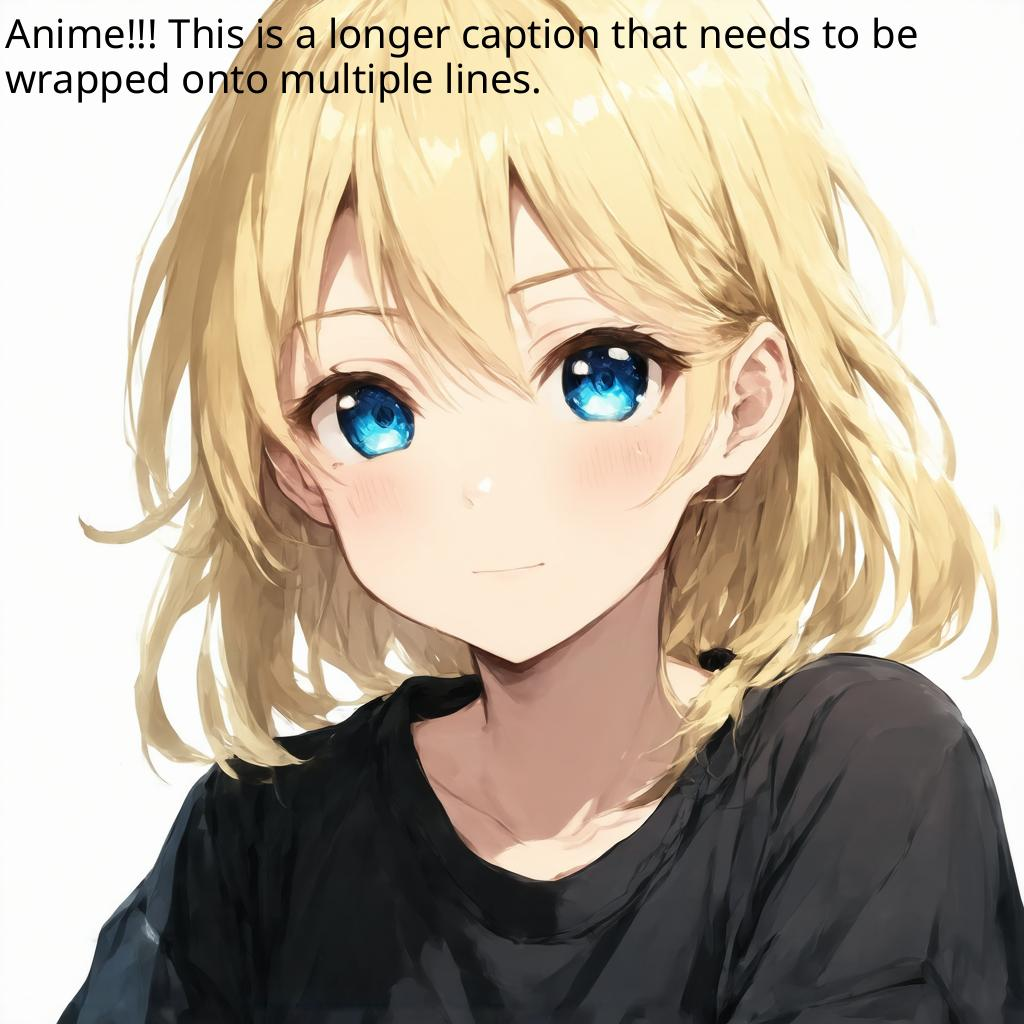
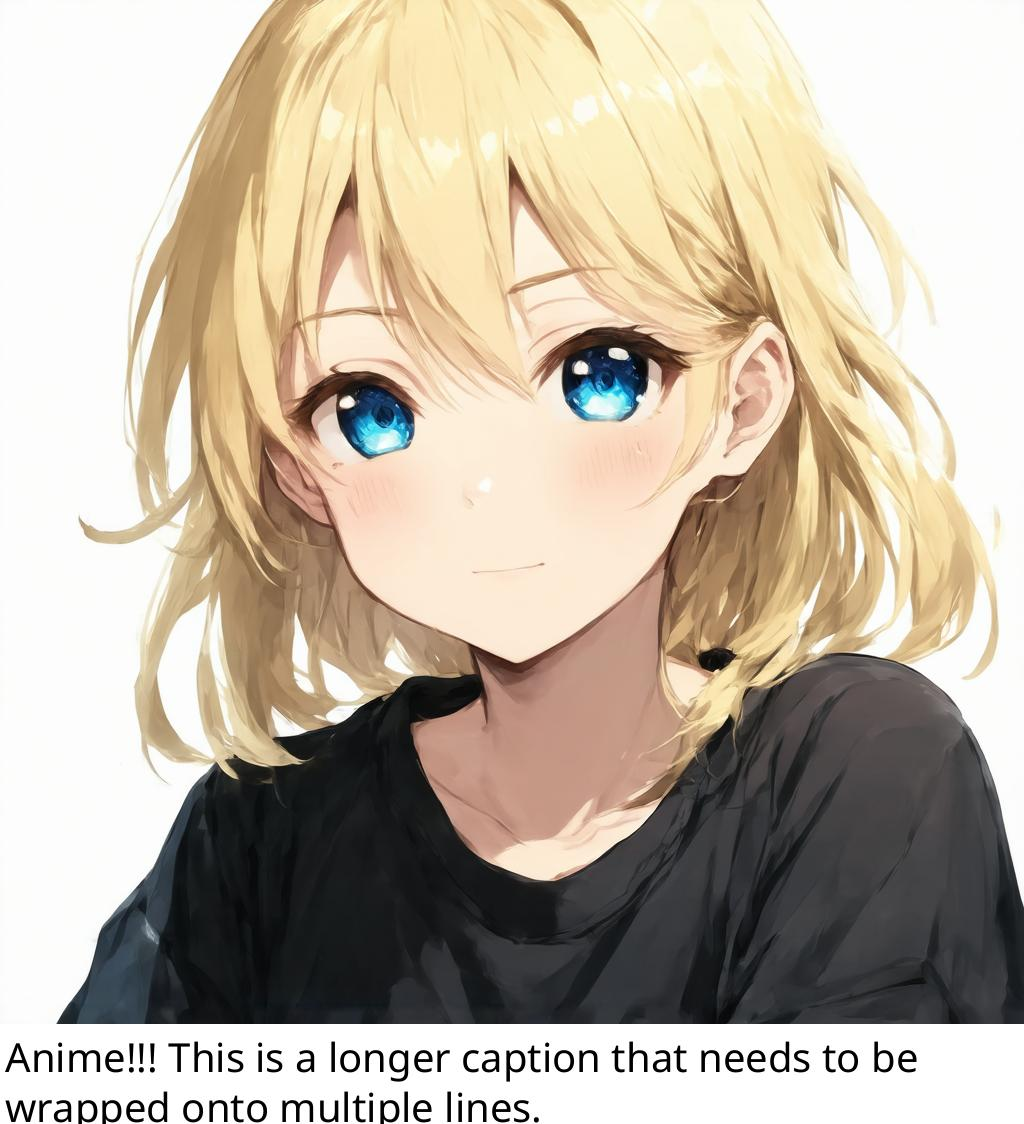
caption sorta working

diff --git a/test_cap/main.py b/test_cap/main.py
@@ -1,3 +1,4 @@
+'''
 from PIL import Image, ImageDraw, ImageFont
 
 # Load the image
@@ -46,3 +47,66 @@ for line in lines:
 
 # Save the new image with caption to disk
 img.save("captured_image.jpg")
+'''
+
+from PIL import Image, ImageDraw, ImageFont
+
+# Load the image
+img = Image.open("test.png")  # replace with your own image
+original_width, original_height = img.size
+
+# Set the text to be overlaid on the image
+text = "Anime!!! This is a longer caption that needs to be wrapped onto multiple lines."
+
+# Define some constants for color and font sizes
+BLACK = (0, 0, 0)
+WHITE = (255, 255, 255)  # White color for the new space
+FONT_SIZE_BODY = 40
+
+# Get a font object for our text
+font_body = ImageFont.truetype("NotoSans.ttf", FONT_SIZE_BODY)
+
+# Create a drawing context for calculating text size
+draw = ImageDraw.Draw(img)
+
+# Define some styles for the caption
+CAPTION_COLOR = BLACK
+CAPTION_PADDING = 5
+LINE_SPACING = 10
+
+# Wrap the caption to multiple lines if necessary
+lines = []
+words = text.split()
+current_line = words[0]
+for word in words[1:]:
+    # Check if adding another word exceeds the image width
+    current_text_size = int(draw.textlength(current_line, font=font_body))
+    word_size = int(draw.textlength(word, font=font_body))
+    if current_text_size + word_size + CAPTION_PADDING > original_width - 2 * CAPTION_PADDING:
+        lines.append(current_line)
+        current_line = word
+    else:
+        current_line += ' ' + word
+
+# Add the last line to the list of lines
+lines.append(current_line)
+
+# Calculate the total height needed for the text
+text_height = (len(lines) - 1) * (FONT_SIZE_BODY + LINE_SPACING) + FONT_SIZE_BODY + CAPTION_PADDING * 2
+
+# Create a new image with added white space at the bottom
+new_image_height = original_height + text_height
+new_img = Image.new("RGB", (original_width, new_image_height), WHITE)
+new_img.paste(img, (0, 0))
+
+# Create a drawing context for the new image
+draw = ImageDraw.Draw(new_img)
+
+# Draw each line of our caption in turn
+y = original_height + CAPTION_PADDING
+for line in lines:
+    draw.text((CAPTION_PADDING, y), line, font=font_body, fill=CAPTION_COLOR)
+    y += FONT_SIZE_BODY + LINE_SPACING
+
+# Save the new image with caption to disk
+new_img.save("captured_image.jpg")
